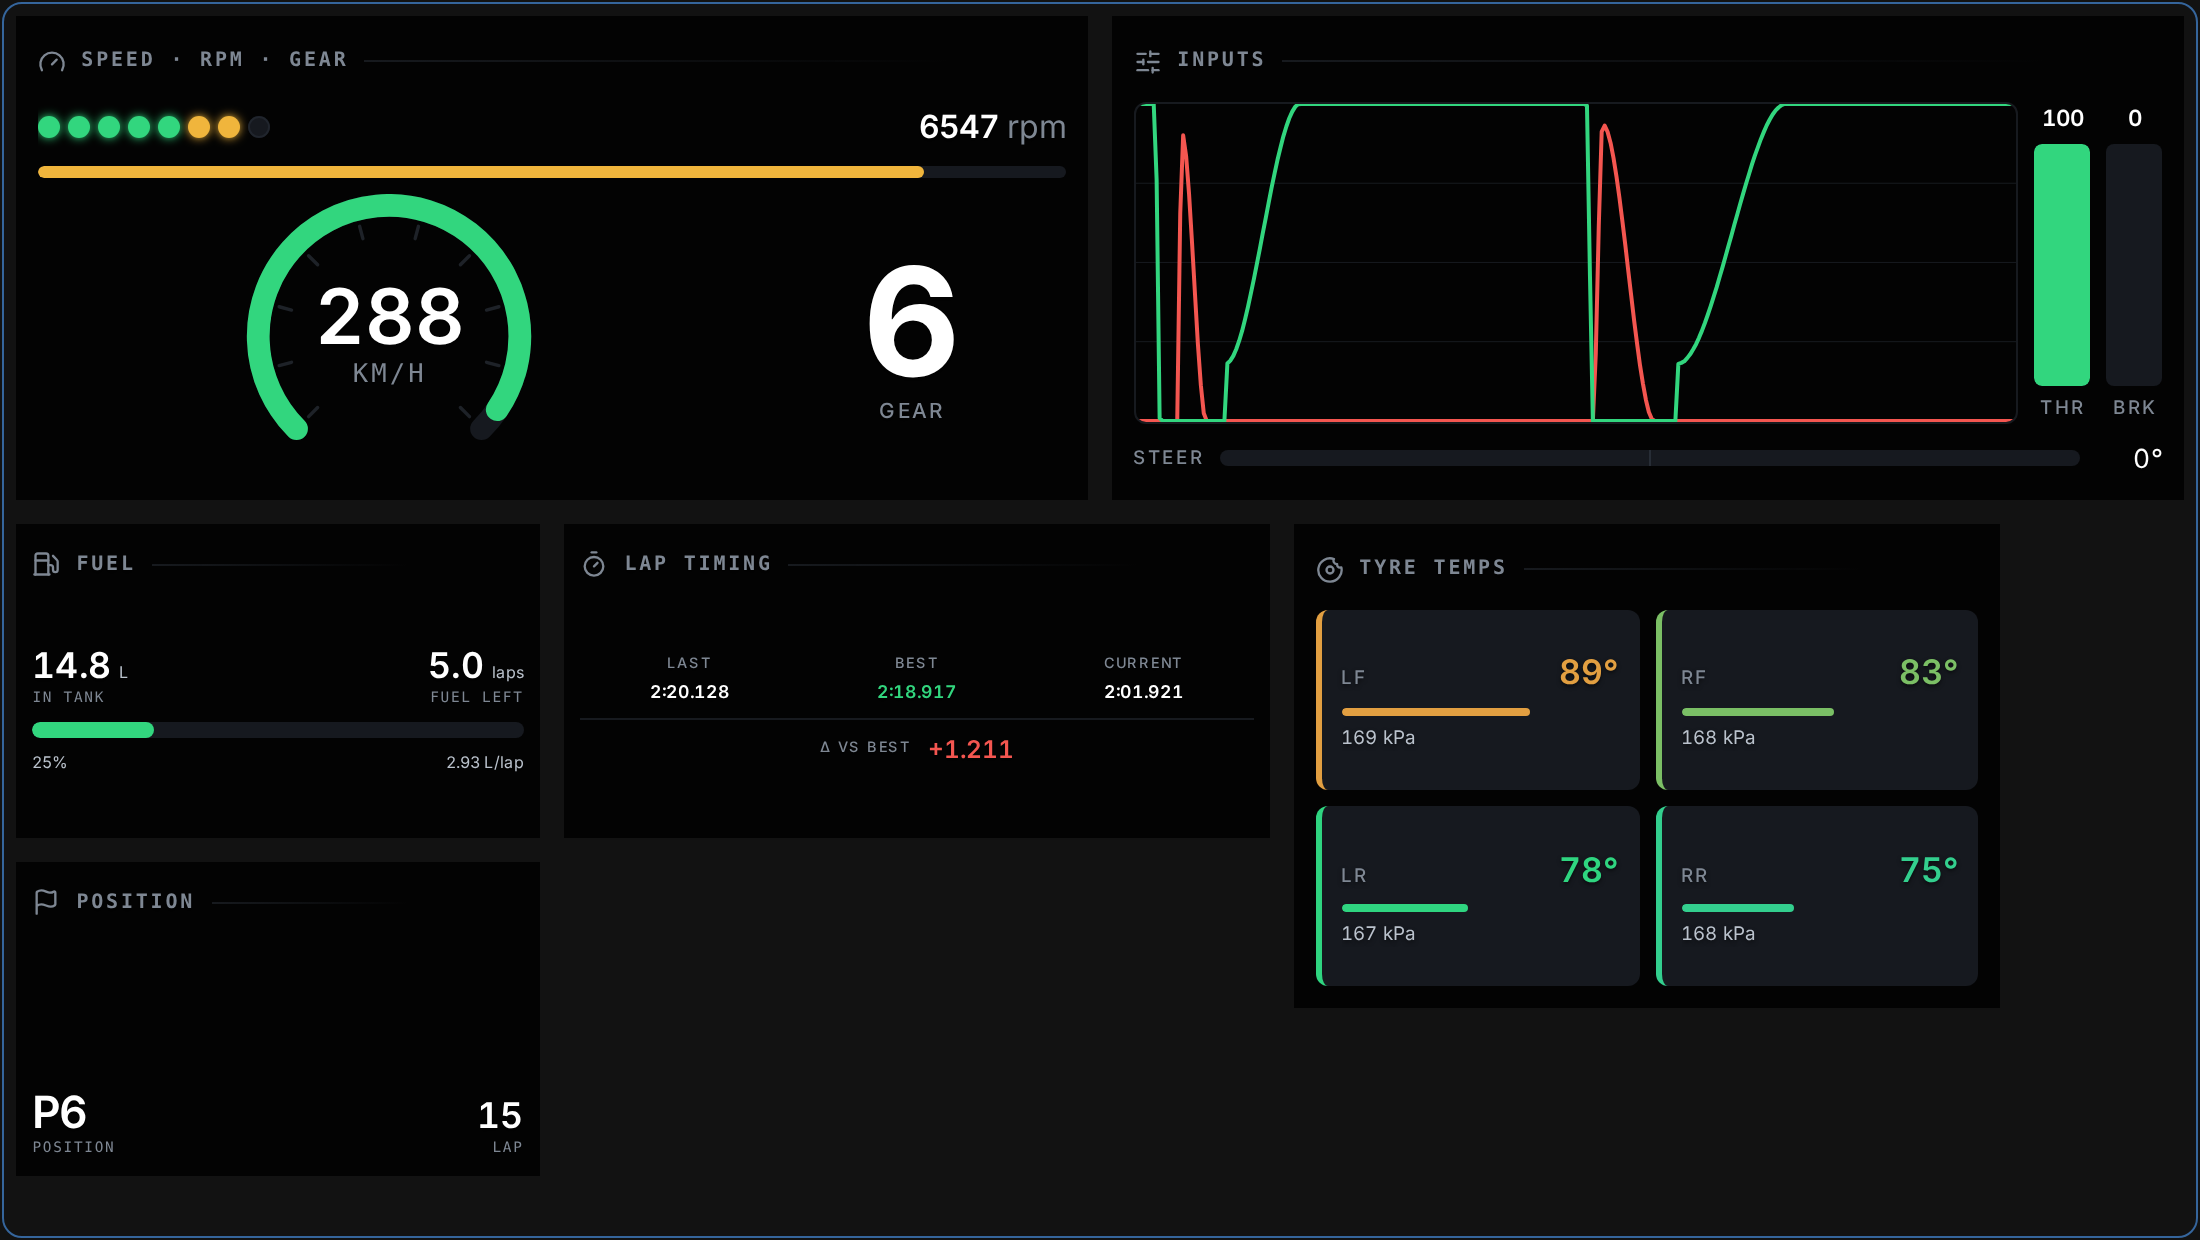
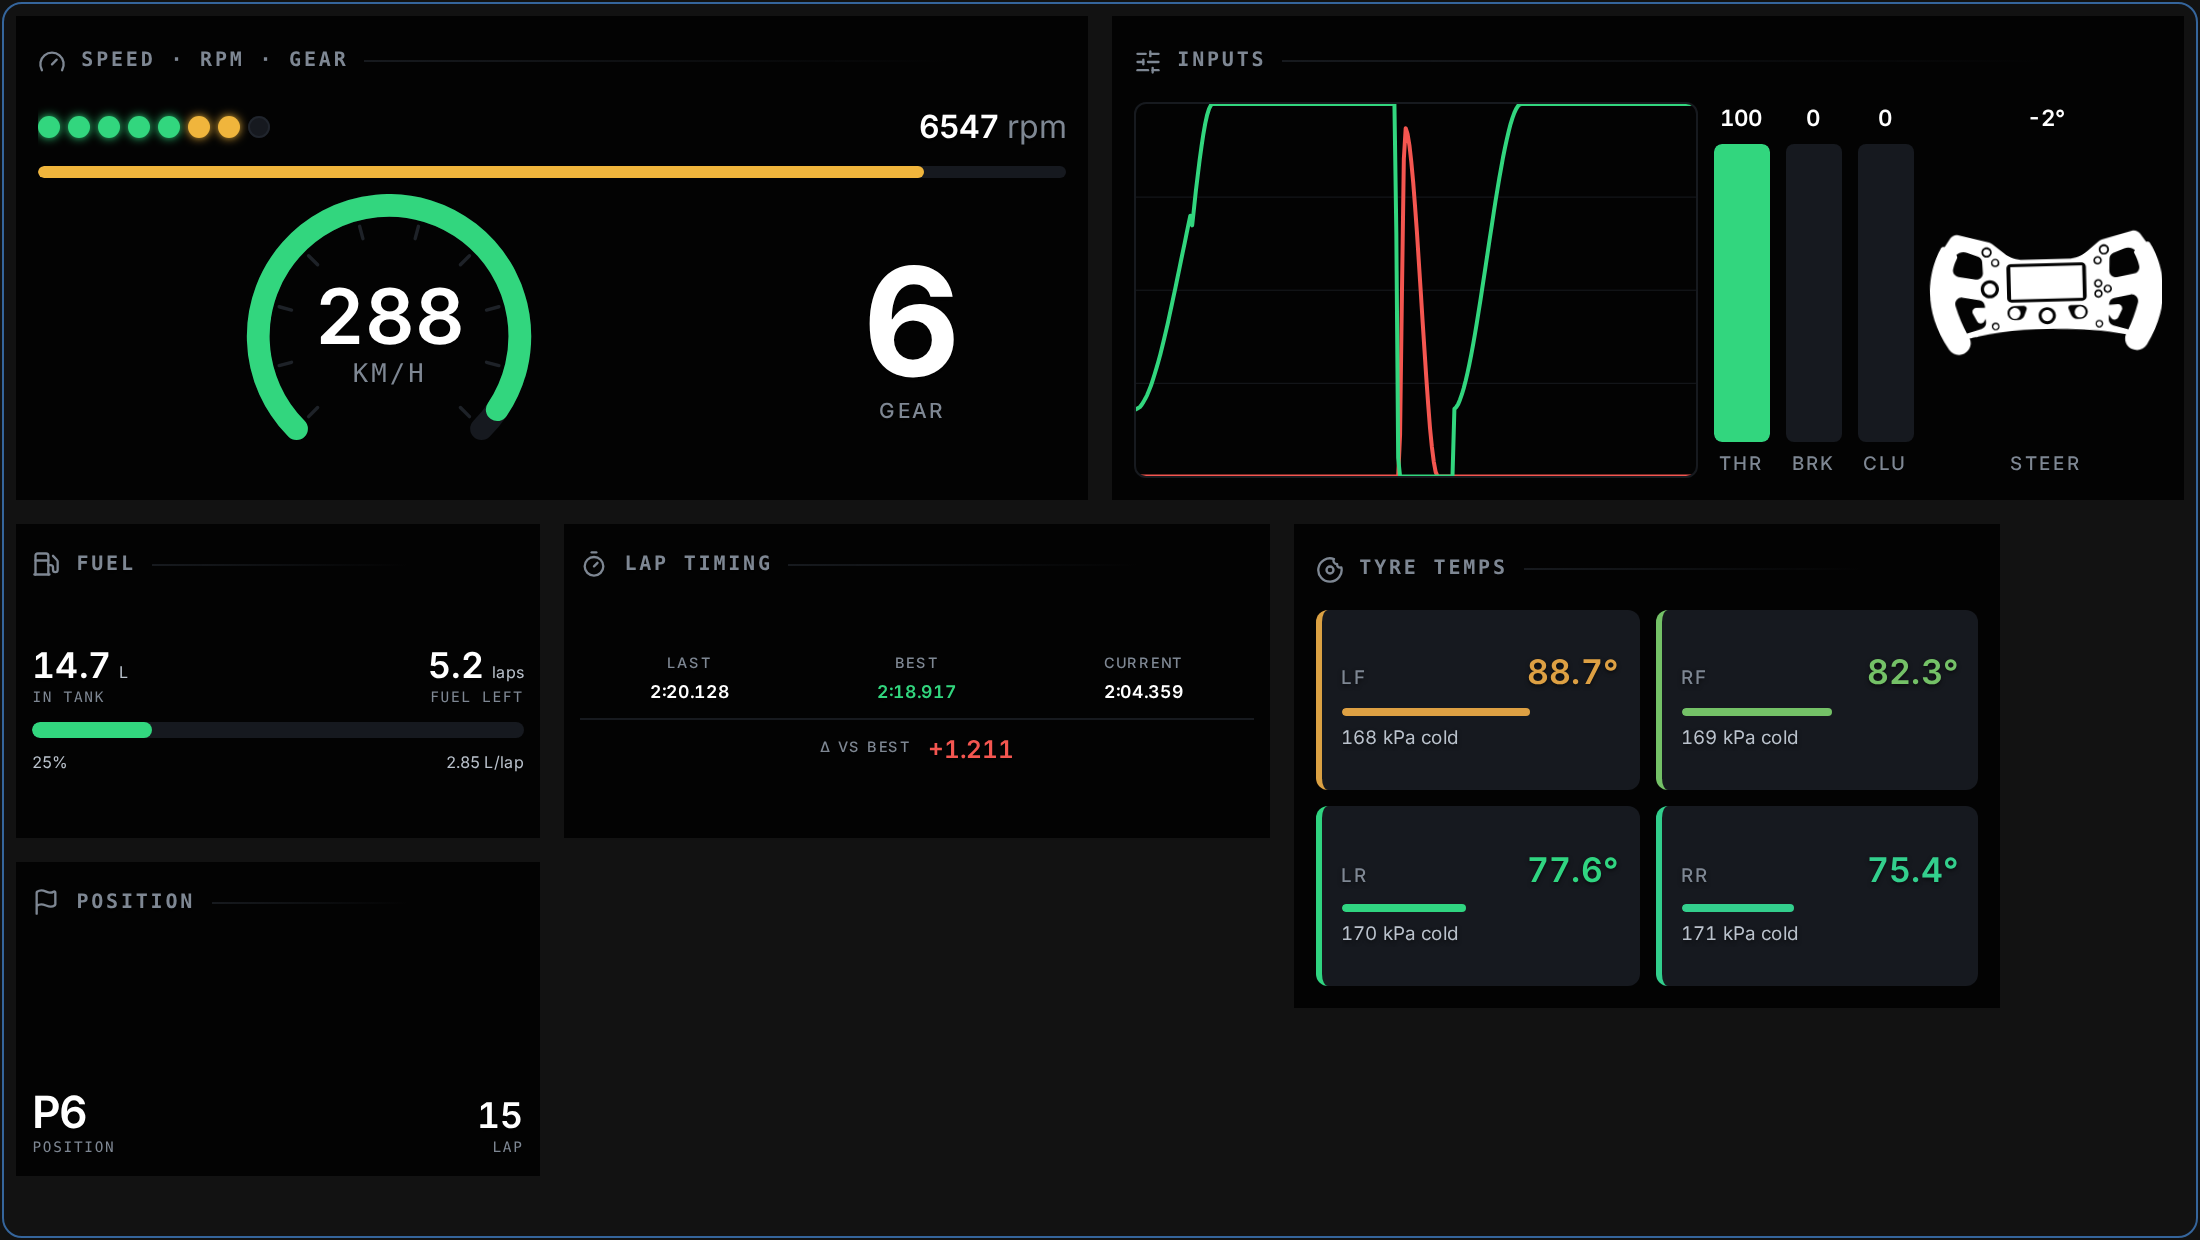
docs(site): re-shoot the captures against the new class colours
Every image on the marketing page is a real screenshot of the app on the mock
feed, so four releases of overlay work had left all six of them showing a
product that no longer exists. Re-shot from the live app.

What changed in them: class colour is this app's ramp rather than iRacing's, so
GT3 is cyan and GT4 magenta instead of red and blue, each row carries the class
fill behind its leading column, and the class bands sit on the same bar. The
inputs widget has a clutch bar and a steering wheel that turns. Tyre temps read
to a tenth and label their pressure "cold". The player's row keeps its own
ground with no class tint, which is the one-ground rule visible in a picture.

Two things the re-shoot exposed, both fixed here rather than left:

The compact hero was framed 75 px too tall. Its height was measured when a
narrow table shed columns to fit — rows stayed 32 px and the field stayed the
same height. The table scales now, so at 620 px it draws at ~0.61 and the field
is ~0.61 as tall; the old frame closed on a band of empty paper. 381 → 306, and
the note above the heights now says that scale multiplies every boundary in it,
and to re-measure by looking at the file rather than by arithmetic.

The page still promised "the rest drop out as the window narrows". That has not
been true since the tables learned to scale, and the hero is now the proof of
the opposite: fifteen columns at 620 px, none dropped. Its alt text said the
[…]

diff --git a/site/index.html b/site/index.html
@@ -259,12 +259,15 @@
             <img
               src="assets/standings-compact.png"
               width="1240"
-              height="762"
-              alt="The standings overlay in a narrow window: a session strip reading
-                   lap, time left, incidents, track and air temperature, strength of
-                   field and the clock, then a GT3 class band with car count, SoF and
-                   fastest lap, six driver rows carrying gap, interval, last and best
-                   lap, and the start of the GT4 group below."
+              height="612"
+              alt="The standings overlay in a narrow window, drawn small enough that
+                   every column still fits: a session strip reading lap, time left,
+                   incidents, track and air temperature, strength of field and the
+                   clock, then a GT3 class band with car count, SoF and fastest lap
+                   over six driver rows, and the full GT4 group below it — each row
+                   carrying position change, position, car number, driver, car brand,
+                   licence, iRating, gap, interval, last lap, best lap, tyre and three
+                   sector columns."
             />
           </figure>
         </section>
@@ -365,7 +368,7 @@
               loading="lazy"
               alt="The fuel and strategy overlay, headed 'margin 1.0 lap': a 'Pit
                    stop needed' banner reading 4.2 fuel laps against 11 laps to the
-                   flag, 14.8 litres in tank, 2.85 litres per lap consumption, a
+                   flag, 14.7 litres in tank, 2.85 litres per lap consumption, a
                    next pit window of laps 18 to 19, a recommended pit on lap 19, a
                    note reading 'short by 7 laps at the current burn', and two
                    candidate plans — a one-stop on lap 19 and a two-stop."
@@ -390,7 +393,7 @@
             </p>
             <ul class="reads">
               <li>Every overlay is a separate window — place, resize and theme it on its own</li>
-              <li>Pick which timing columns you want; the rest drop out as the window narrows</li>
+              <li>Pick which timing columns you want; the whole table scales to fit, keeping every one</li>
               <li>Four themes, and a mock-data mode that runs the whole UI without a sim</li>
             </ul>
           </div>
